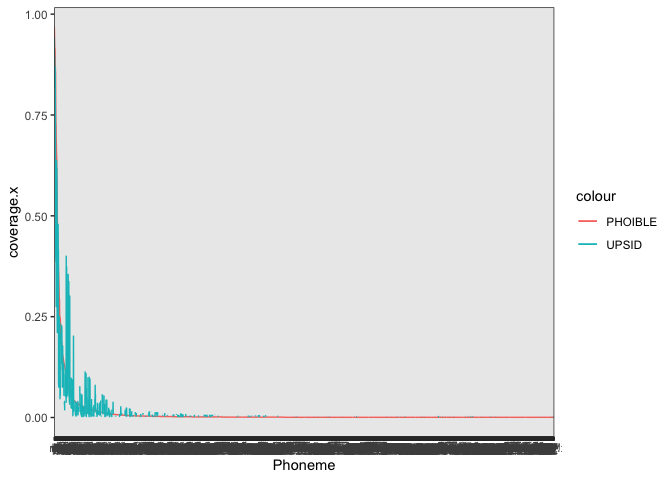
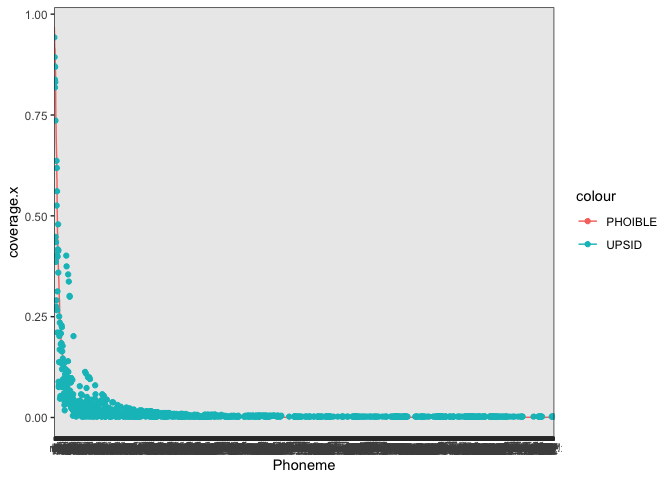
change to dots

Changed region(s): [[0.0625, 0.3125, 0.8438, 0.875], [0.0625, 0.125, 0.0938, 0.1875], [0.0625, 0.25, 0.0938, 0.2812]]

diff --git a/frequency/segment-frequency.md b/frequency/segment-frequency.md
@@ -436,8 +436,10 @@ temp$Phoneme <- factor(temp$Phoneme, levels = temp$Phoneme)
 # Plot all data points
 ggplot(temp, aes(Phoneme, group=1)) +
   geom_line(aes(y = coverage.x, colour = "PHOIBLE")) + 
-  geom_line(aes(y = coverage.y, colour = "UPSID"))
+  geom_point(aes(y = coverage.y, colour = "UPSID"))
 ```
+
+    ## Warning: Removed 2264 rows containing missing values (geom_point).
 
 ![](segment-frequency_files/figure-markdown_github/unnamed-chunk-25-1.png)
 
